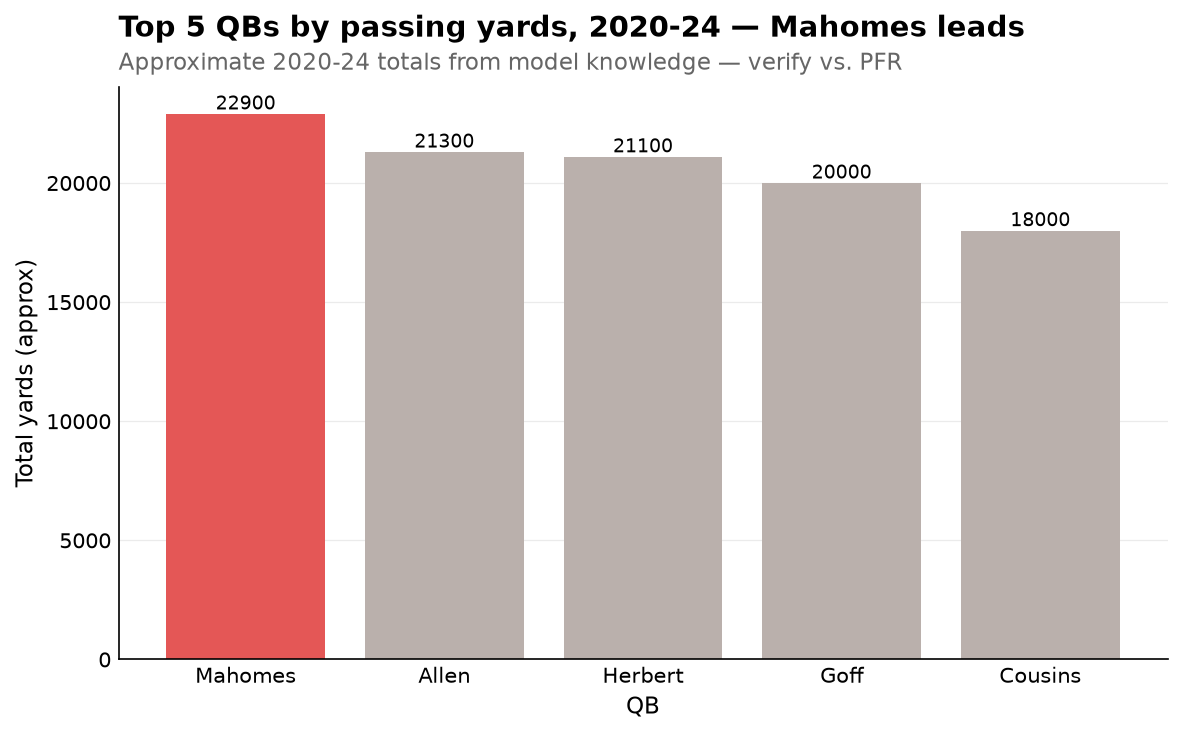
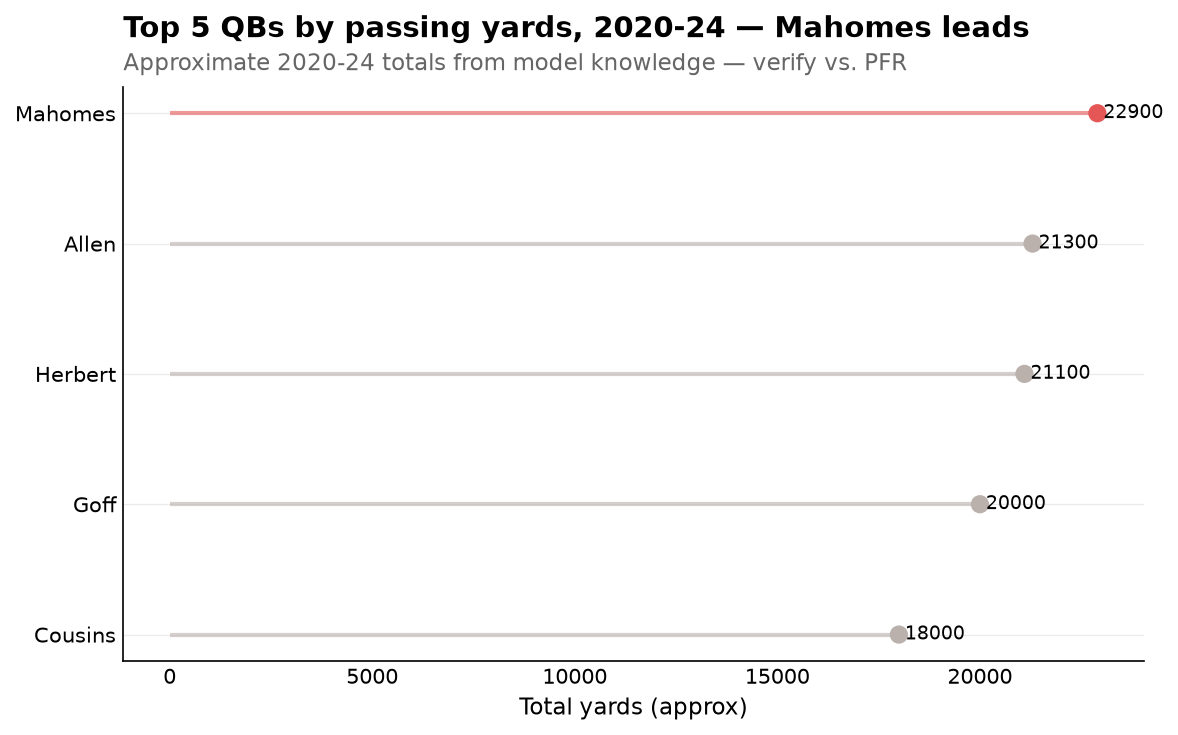
Add seaborn visualizations and more chart-type variety
Broaden the visualization variety beyond bar charts:

- Add examples/nfl_seaborn.py using seaborn (optional [viz] dependency): a
  heatmap of per-stat z-scores by season, faceted small-multiple line trends,
  and a top-5 drop-off line chart by position -- none of them bar charts.
- Convert the position top-5 charts from bars to the library's own
  dot/lollipop plots for variety.
- Add seaborn as an optional dependency (pip install -e ".[viz]") and document
  the new example in the READMEs.

The core library stays pure matplotlib and unchanged (199 lines); seaborn is
used only in examples. 14 tests still pass.

Claude-Session: https://claude.ai/code/session_01L8PxvjVqt3hSV8zCpXr8Eq

diff --git a/examples/nfl_seaborn.py b/examples/nfl_seaborn.py
@@ -1,0 +1,69 @@
+"""Extra NFL visualizations with seaborn — variety beyond matplotlib bars.
+
+seaborn is an optional dependency:  pip install -e ".[viz]"  (or pip install seaborn)
+
+Renders three non-bar charts from the NFL datasets:
+  1. a heatmap of how hot/cold each season's leader ran per stat,
+  2. faceted small-multiple line charts (one trend panel per stat),
+  3. a drop-off line chart comparing the top-5 curve at each position.
+
+Values are compiled from model knowledge — verify vs. Pro-Football-Reference.
+"""
+
+from pathlib import Path
+
+import matplotlib
+matplotlib.use("Agg")
+import matplotlib.pyplot as plt
+import pandas as pd
+import seaborn as sns
+
+ROOT = Path(__file__).resolve().parents[1]
+IMAGES = Path(__file__).parent / "images"
+IMAGES.mkdir(exist_ok=True)
+sns.set_theme(style="whitegrid", font_scale=1.0)
+
+leaders = pd.read_csv(ROOT / "datasets" / "nfl_leaders_2020_2024.csv")
+pos = pd.read_csv(ROOT / "datasets" / "nfl_position_top5_2020_2024.csv")
+
+# 1. Heatmap: leader value per stat x season, colored by z-score within each
+#    stat (so different scales are comparable), annotated with the raw value.
+piv = leaders.pivot_table(index="stat", columns="year", values="value")
+z = piv.sub(piv.mean(axis=1), axis=0).div(piv.std(axis=1), axis=0)
+annot = piv.map(lambda v: "" if pd.isna(v) else f"{v:g}")
+plt.figure(figsize=(8, 5))
+sns.heatmap(z, annot=annot, fmt="", cmap="vlag", center=0, linewidths=0.5,
+            cbar_kws={"label": "Hot / cold vs. that stat's 5-yr average"})
+plt.title("Which season ran hot for each stat, 2020-24", fontweight="bold")
+plt.xlabel(""); plt.ylabel("")
+plt.tight_layout()
+plt.savefig(IMAGES / "seaborn_heatmap.png", dpi=150)
+plt.close()
+
+# 2. Small multiples: one line panel per stat, each with its own y-scale.
+g = sns.relplot(data=leaders, x="year", y="value", col="stat", kind="line",
+                marker="o", col_wrap=4, height=2.6, aspect=1.1,
+                facet_kws={"sharey": False})
+g.set_titles("{col_name}")
+g.set_axis_labels("Season", "Leader value")
+g.figure.suptitle("Season-leader trend by stat, 2020-24", fontweight="bold")
+g.figure.subplots_adjust(top=0.86)
+g.savefig(IMAGES / "seaborn_trends.png", dpi=150)
+plt.close(g.figure)
+
+# 3. Drop-off curve: each position's top 5 as a % of that position's best,
+#    so the steepness of the fall-off is comparable across positions.
+pos = pos.copy()
+pos["pct_of_best"] = pos.groupby("position")["total"].transform(lambda s: s / s.max() * 100)
+plt.figure(figsize=(8, 5))
+sns.lineplot(data=pos, x="rank", y="pct_of_best", hue="position",
+             marker="o", linewidth=2)
+plt.title("How fast the top 5 falls off at each position, 2020-24",
+          fontweight="bold")
+plt.xlabel("Rank (1 = best)"); plt.ylabel("% of the position's #1")
+plt.xticks([1, 2, 3, 4, 5])
+plt.tight_layout()
+plt.savefig(IMAGES / "seaborn_dropoff.png", dpi=150)
+plt.close()
+
+print("Wrote seaborn charts to", IMAGES)

diff --git a/examples/nfl_positions.py b/examples/nfl_positions.py
@@ -40,11 +40,12 @@ for pos, blurb in POSITIONS.items():
     best = g.iloc[0]
     print(f"  {pos:5s}: {best['player']} ({best['team']}) "
           f"~{best['total']:g} {best['unit']}")
+    # A horizontal dot / lollipop plot reads cleanly for a top-5 ranking.
     (Chart(g, x="last")
-        .bar("total", highlight=best["last"], values=True, sort=True)
+        .dot("total", highlight=best["last"], values=True)
         .title(f"Top 5 {pos}s by {blurb}, 2020-24 — {best['last']} leads")
         .subtitle(CAVEAT)
-        .labels(x=pos, y=f"Total {g['unit'].iloc[0]} (approx)")
+        .labels(x=f"Total {g['unit'].iloc[0]} (approx)")
         .save(str(IMAGES / f"nfl_top5_{pos.lower()}.png")))
 
 print("\nWrote charts to", IMAGES)

diff --git a/examples/README.md b/examples/README.md
@@ -11,13 +11,21 @@ visualization committed under `images/`.
 | [`quickstart.py`](quickstart.py) | A tour of the chart types on the NFL leaders dataset: line, bar, dot, and histogram |
 | [`nfl_leaders.py`](nfl_leaders.py) | Analyzes NFL season leaders 2020–24: the standout season per category and the most consistent leaders |
 | [`nfl_totals.py`](nfl_totals.py) | Aggregates leaders across seasons (not split by year) and surfaces the accumulation outliers |
-| [`nfl_positions.py`](nfl_positions.py) | Top 5 at each position over 2020–24, ordered by the stat, best player accented |
+| [`nfl_positions.py`](nfl_positions.py) | Top 5 at each position over 2020–24 as dot/lollipop plots, best player accented |
+| [`nfl_seaborn.py`](nfl_seaborn.py) | Non-bar variety via **seaborn**: a heatmap, faceted small-multiple line trends, and a top-5 drop-off chart |
 
 Run any example from the repo root:
 
 ```bash
 pip install -e .
 python examples/quickstart.py
+```
+
+The `nfl_seaborn.py` example additionally needs seaborn:
+
+```bash
+pip install -e ".[viz]"
+python examples/nfl_seaborn.py
 ```
 
 ## quickstart.py
@@ -75,3 +83,14 @@ Allen) and WR (vs. Tyreek Hill) are close calls.
 ![rb](images/nfl_top5_rb.png)
 ![wr](images/nfl_top5_wr.png)
 ![edge](images/nfl_top5_edge.png)
+
+## nfl_seaborn.py
+
+Variety beyond the matplotlib bars, using **seaborn** (`pip install -e ".[viz]"`):
+a **heatmap** of how hot/cold each season's leader ran per stat, **faceted
+small-multiple line trends** (one panel per stat), and a **drop-off line chart**
+comparing how steeply the top 5 falls off at each position.
+
+![heatmap](images/seaborn_heatmap.png)
+![trends](images/seaborn_trends.png)
+![dropoff](images/seaborn_dropoff.png)

diff --git a/README.md b/README.md
@@ -25,6 +25,7 @@ simple-eda-project/
 │   ├── nfl_leaders.py
 │   ├── nfl_totals.py
 │   ├── nfl_positions.py
+│   ├── nfl_seaborn.py
 │   └── images/
 ├── tests/
 │   └── test_core.py
